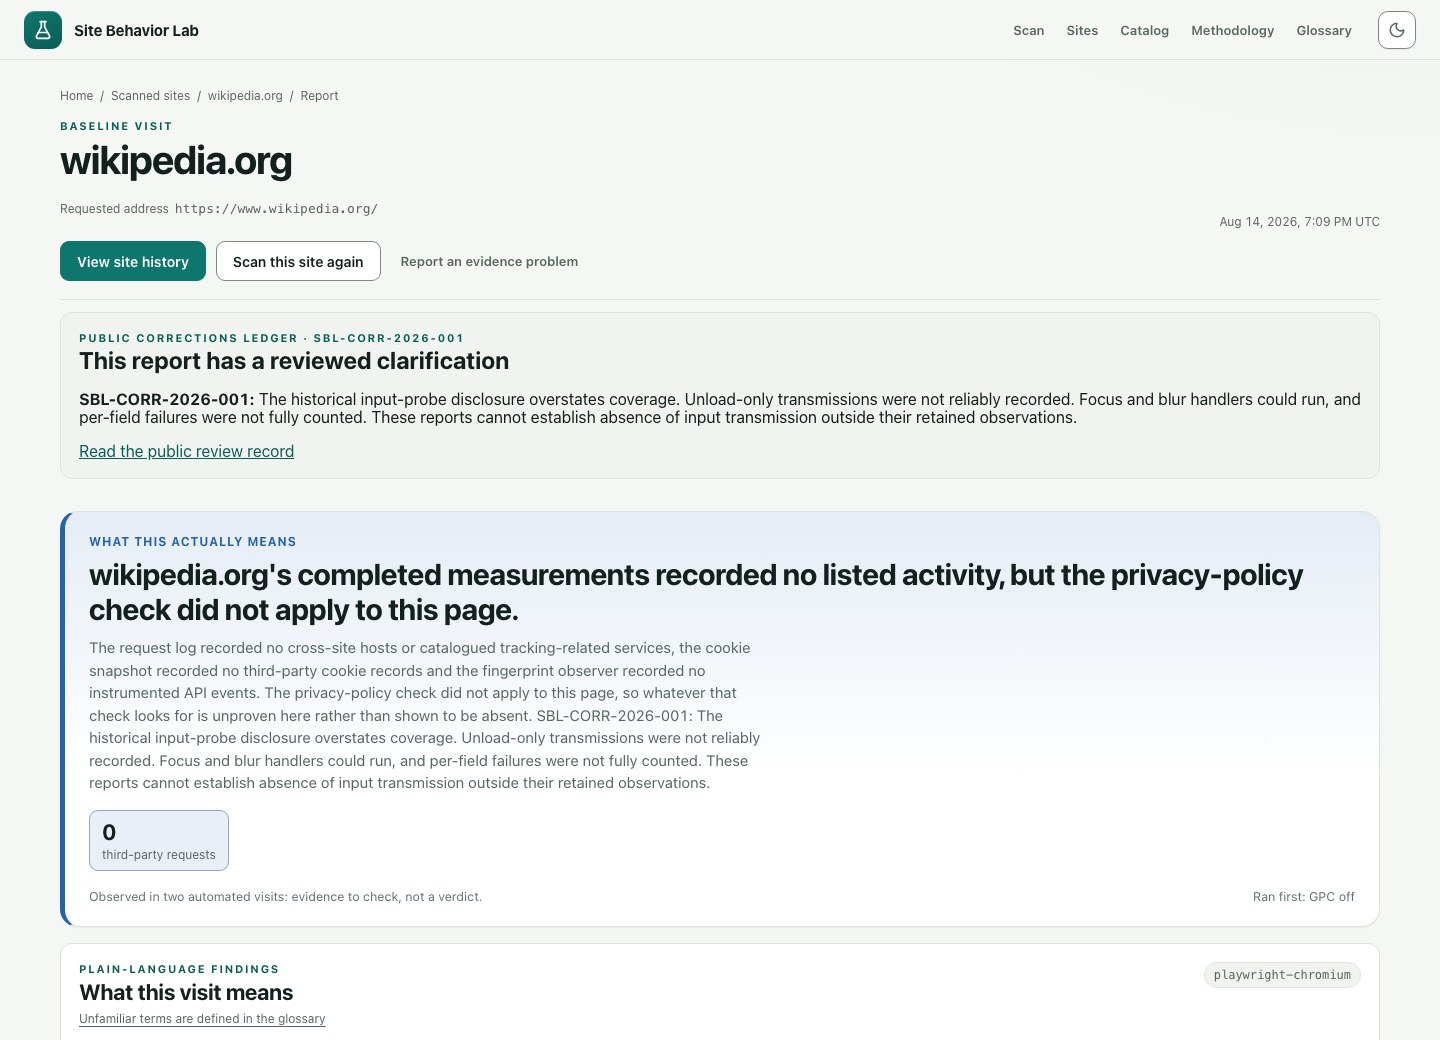
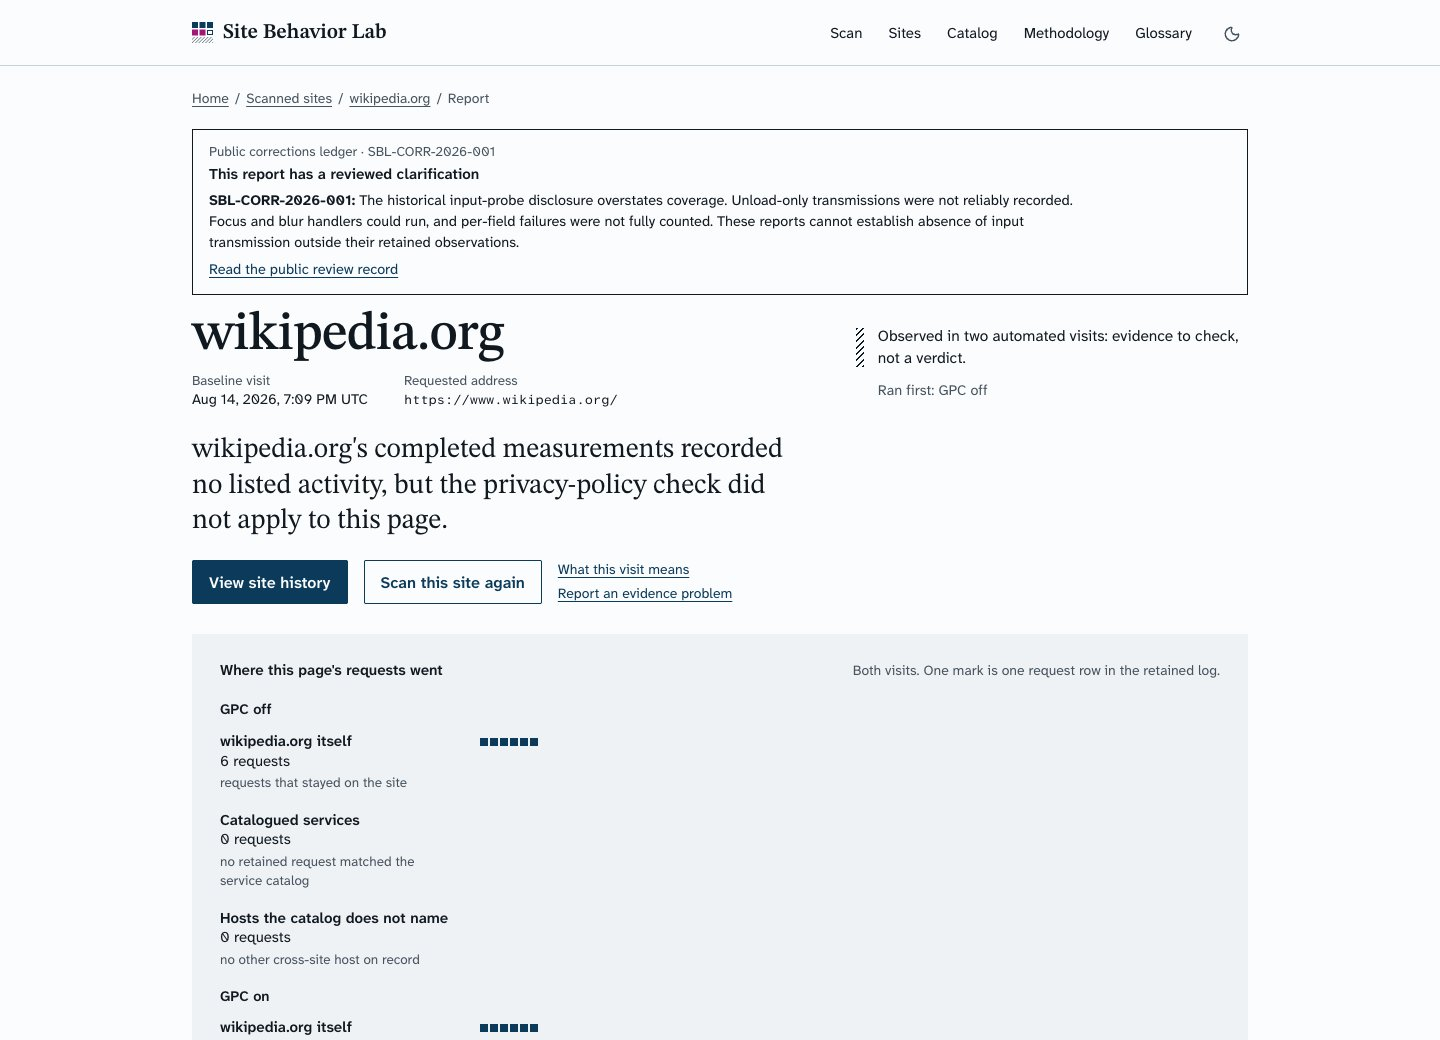
Recapture the README picture from the released first-glance export
The image showed the report page before the direction A design and the
first-glance pass. The new capture is the same report at the same 1440 by
1040 size in the light theme, taken on 2026-11-16 UTC from the gate's
static export of 73c71cc6, served on localhost with every other request
refused. The caption now says so; it keeps the historical comparison and
its reviewed clarification.

diff --git a/README.md b/README.md
@@ -18,9 +18,10 @@ describes one measured visit, not a privacy score or a legal verdict.
 
 [![A wikipedia.org report page, with its reviewed clarification, plain-language headline, and the visit that ran first](docs/images/report-overview.jpg)](https://sitebehavior.org/reports/20260814-31e105d7971825fbd0f3fffa099188fe/)
 
-*The live report page, captured November 14, 2026. This historical GPC
-comparison records August 14 visits and carries a reviewed clarification; it
-does not describe Wikipedia's current behavior.*
+*The report page as built from the released commit `73c71cc6`, captured
+November 16, 2026. This historical GPC comparison records August 14 visits
+and carries a reviewed clarification; it does not describe Wikipedia's
+current behavior.*
 
 ## What a report proves, and what it does not
 
